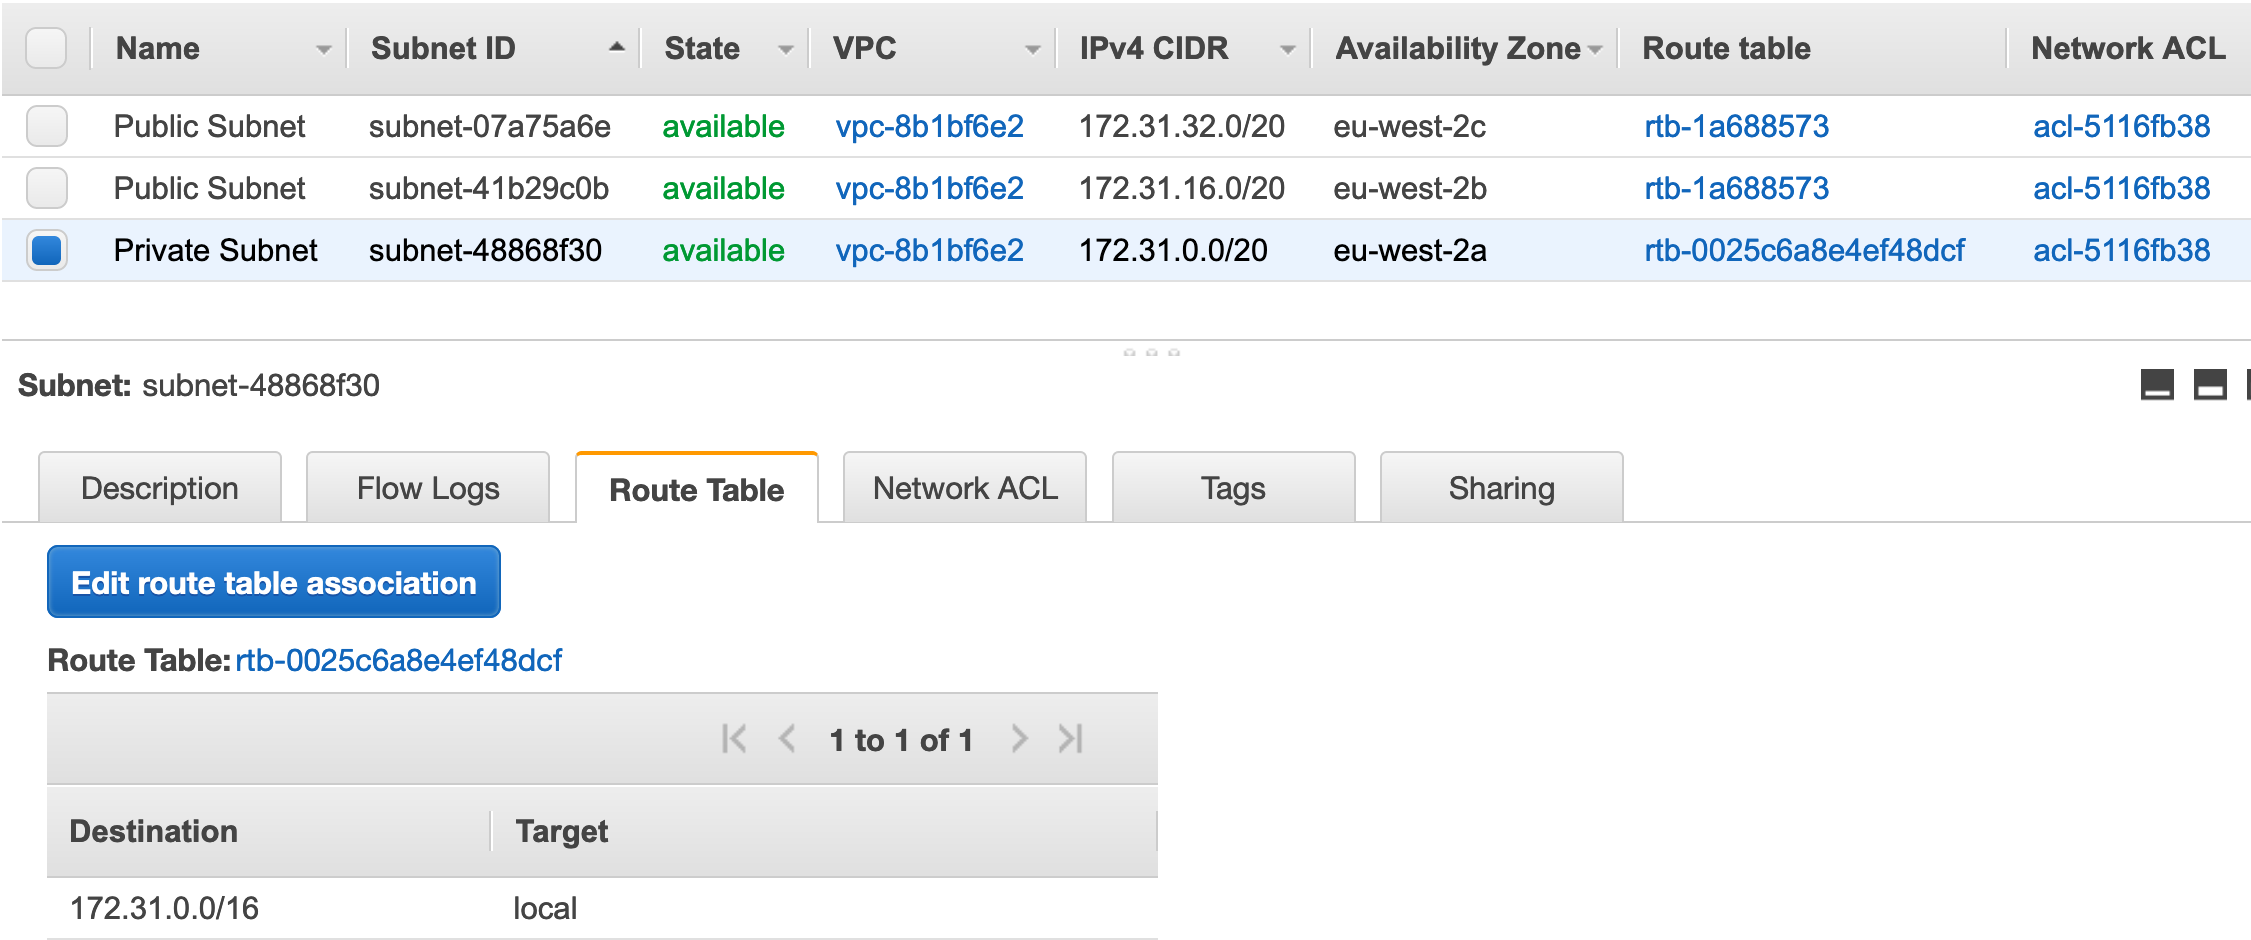
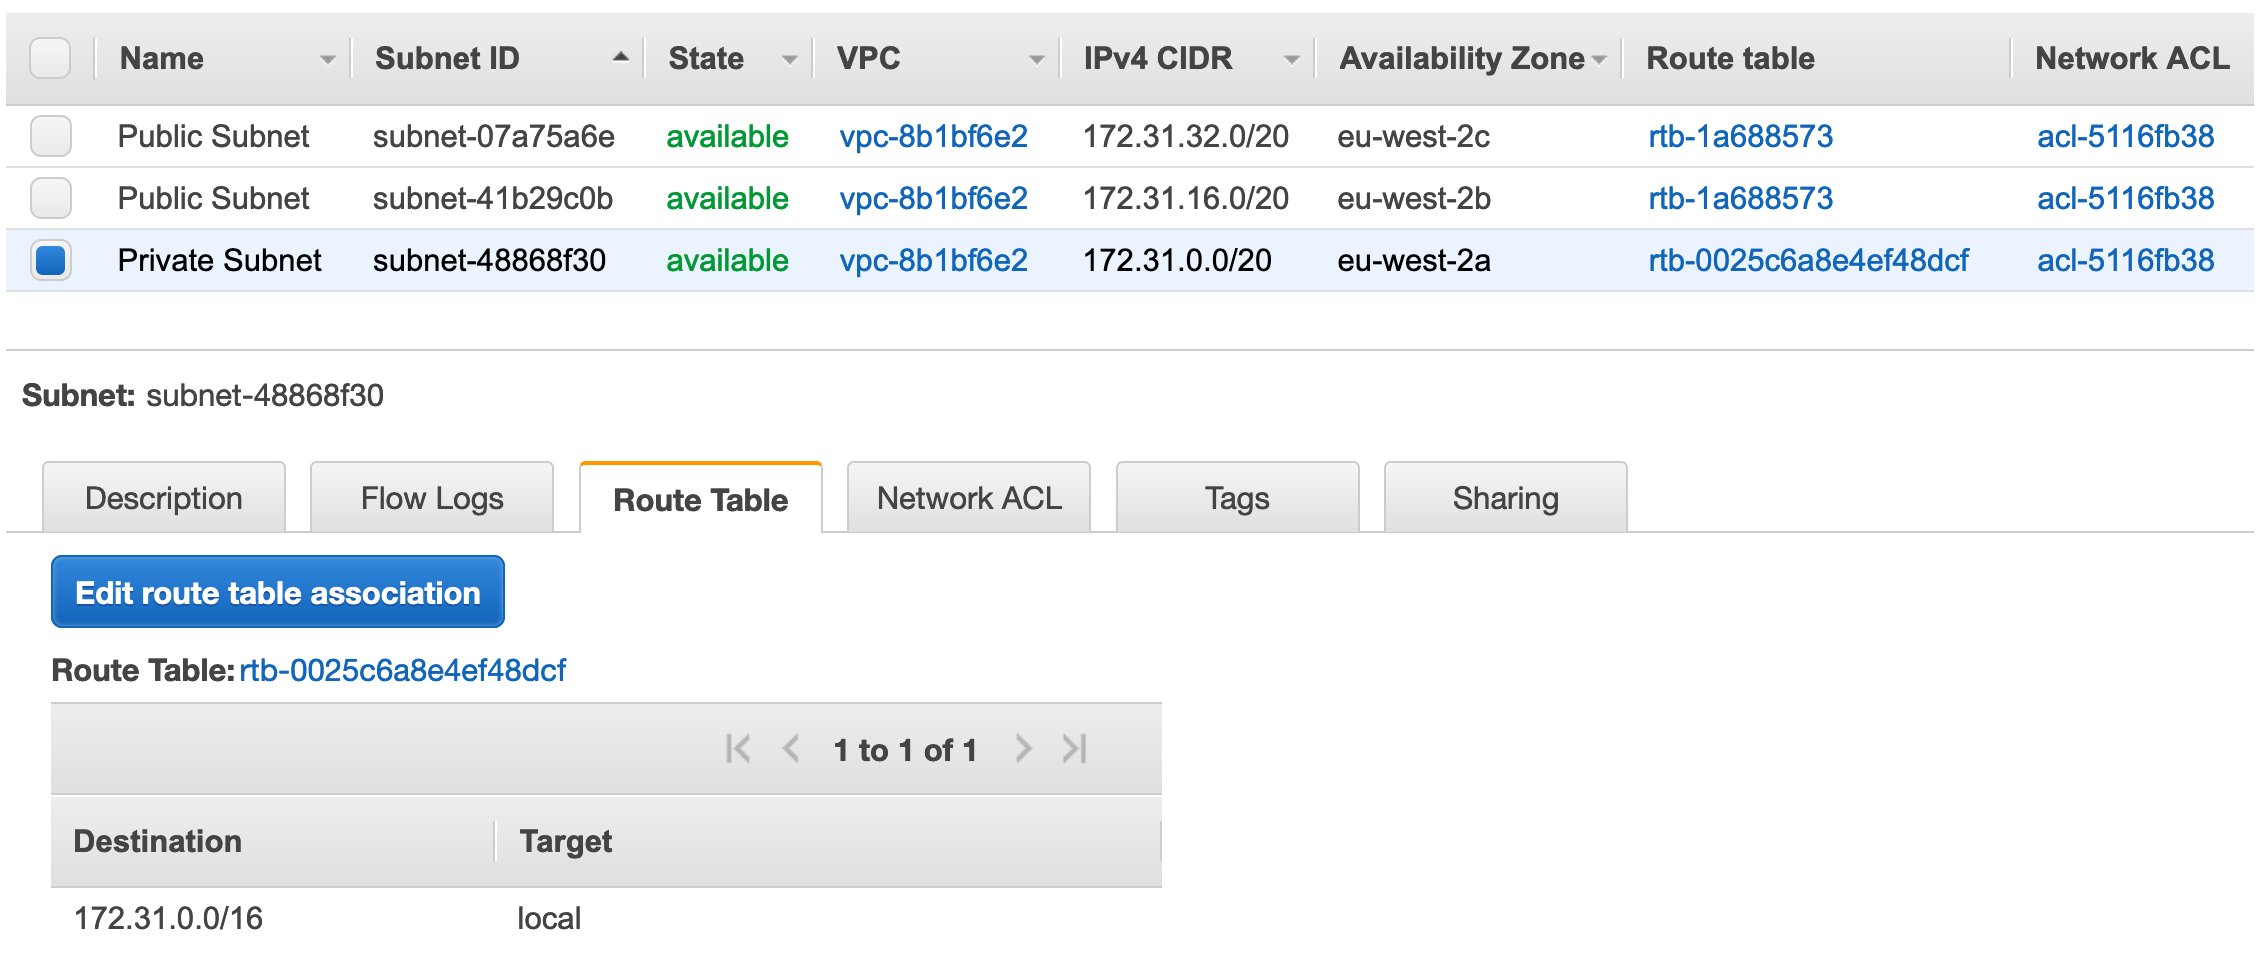
image size

diff --git a/01-vpc-essentials/README.md b/01-vpc-essentials/README.md
@@ -138,14 +138,14 @@ When creating an AWS account, a **Default VPC** is created for us, including the
 
 <br/>
 <div align="center">
-  <img src="assets/subnet-public.png" width="800">
+  <img src="assets/subnet-public.png" width="900">
   <br/>
   <em>Public Subnet</em>
 </div>
 
 <br/>
 <div align="center">
-  <img src="assets/subnet-private.png" width="800">
+  <img src="assets/subnet-private.png" width="900">
   <br/>
   <em>Private Subnet</em>
 </div>
